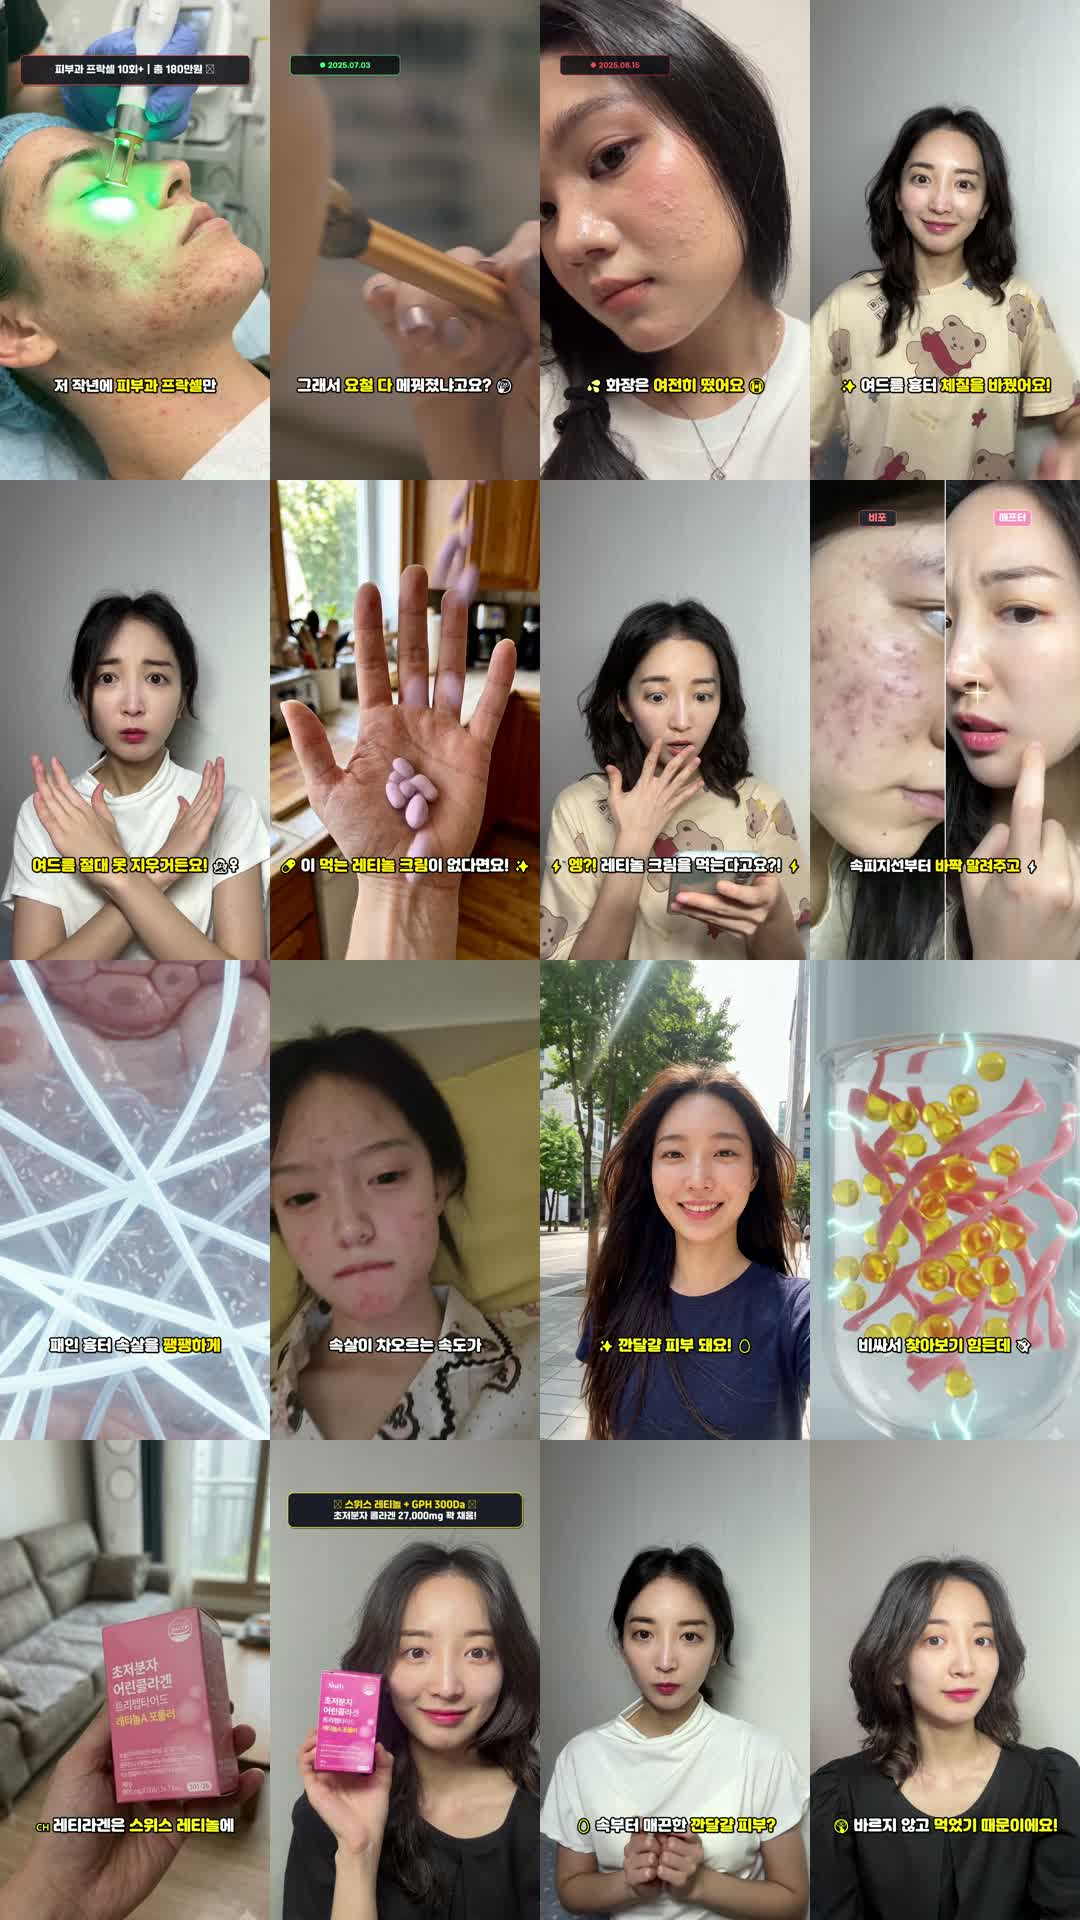
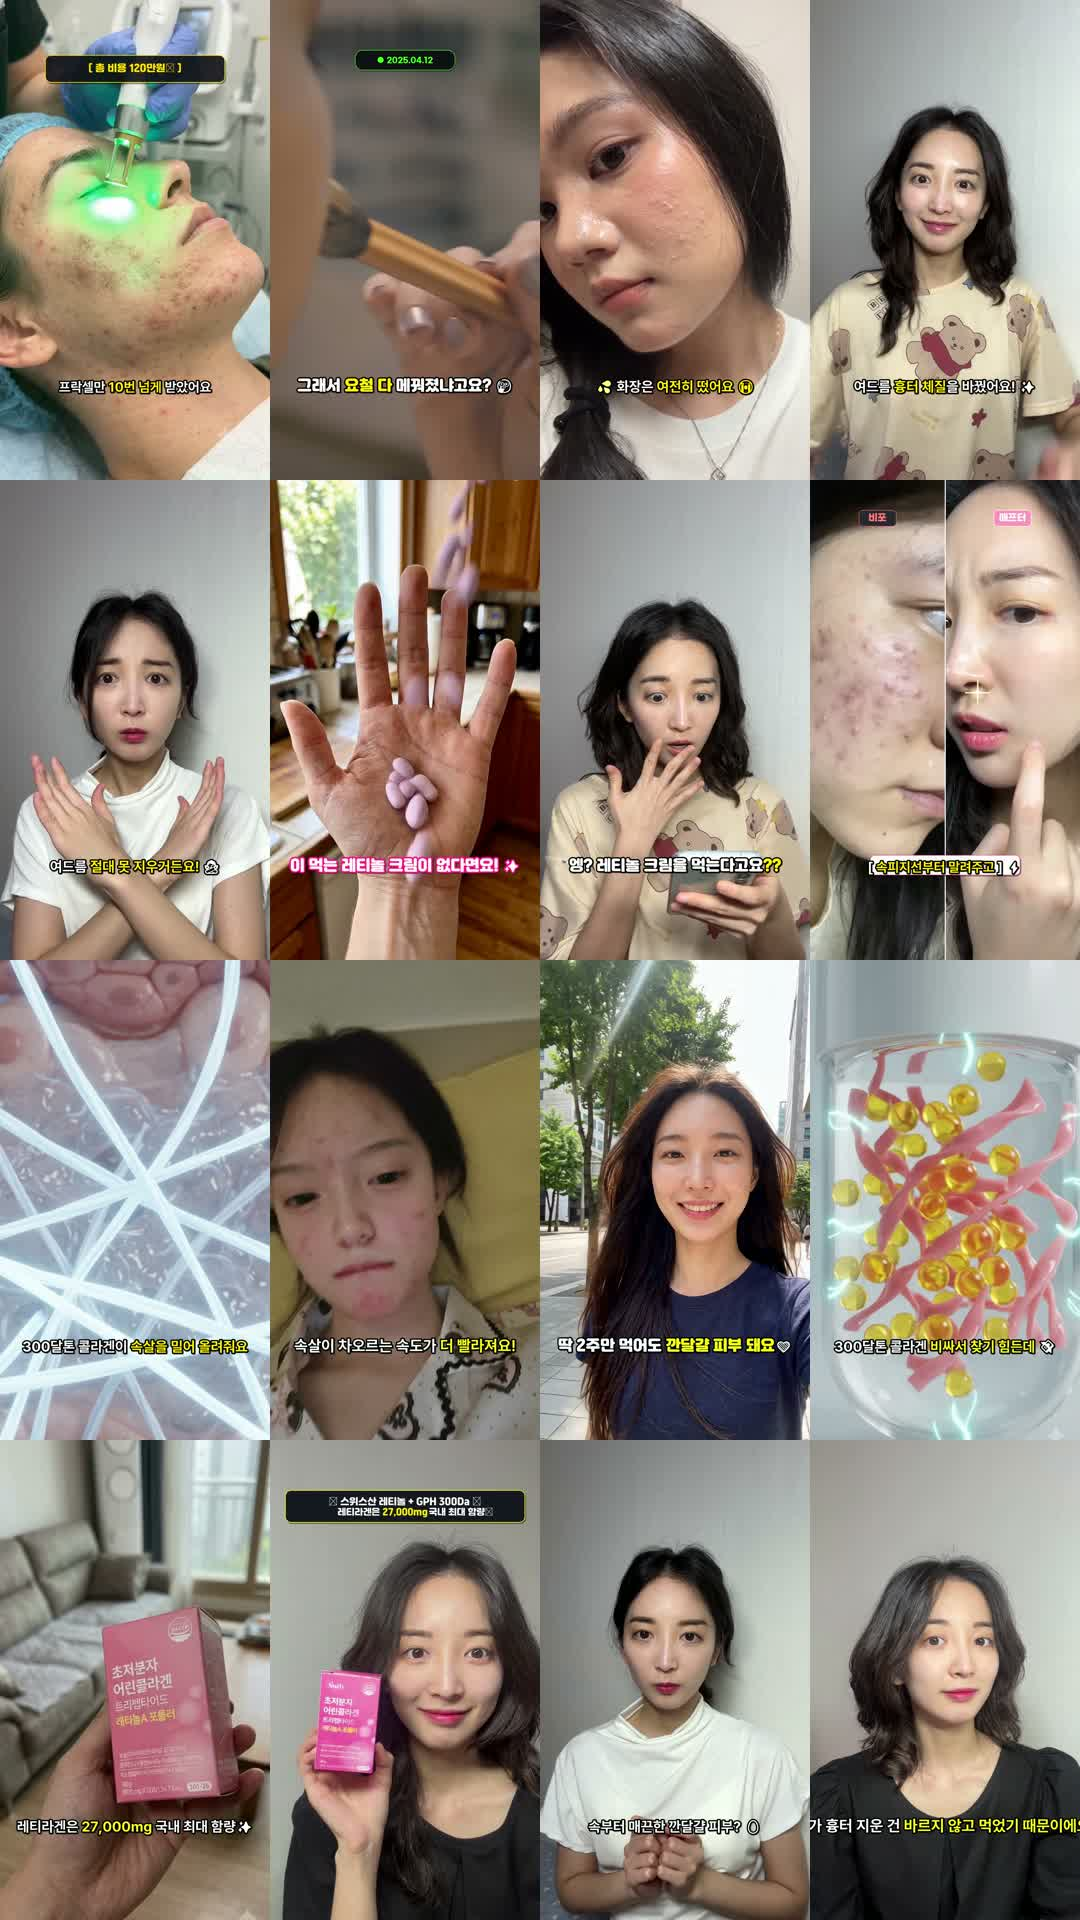
feat: complete exact 1:1 conti implementation with authentic overlays, typography, and sfx design

diff --git a/render_ad17_fish_master_v2.py b/render_ad17_fish_master_v2.py
@@ -30,10 +30,10 @@ ROOT_DIR = r"C:\Users\5700G\Desktop\레티라겐"
 MODEL_DIR = r"C:\Users\5700G\Desktop\레티라겐\윤라영님모델_소스"
 XHS_DIR = r"C:\Users\5700G\Desktop\레티라겐\xhs_sources"
 BUILD_DIR = os.path.join(WORKDIR, "build_ad17_fish")
-CHUNK_DIR = os.path.join(BUILD_DIR, "chunks_v4")
-SPLIT_DIR = os.path.join(BUILD_DIR, "split_frames_v4")
+CHUNK_DIR = os.path.join(BUILD_DIR, "chunks_conti")
+SPLIT_DIR = os.path.join(BUILD_DIR, "split_frames_conti")
 SPARKLE_DIR = os.path.join(WORKDIR, "build_temp_v9", "sparkles")
-OVERLAY_DIR = os.path.join(BUILD_DIR, "overlays_v2")
+OVERLAY_DIR = os.path.join(BUILD_DIR, "overlays_conti")
 
 os.makedirs(CHUNK_DIR, exist_ok=True)
 os.makedirs(SPLIT_DIR, exist_ok=True)
@@ -111,6 +111,11 @@ def render_split_chunk(out_chunk_path, duration=3.350):
         d.rounded_rectangle([735, 120, 885, 185], radius=16, fill=(245, 140, 190, 240), outline=(255, 255, 255, 255), width=2)
         d.text((810, 152), '애프터', fill=(255, 255, 255), font=f_tag, anchor='mm')
         
+        lbl_img = os.path.join(OVERLAY_DIR, "05_after_label.png")
+        if os.path.exists(lbl_img):
+            lbl = Image.open(lbl_img).convert('RGBA')
+            canvas = Image.alpha_composite(canvas, lbl)
+            
         canvas.convert('RGB').save(f'{SPLIT_DIR}/comp_{f:03d}.png')
         
     cmd = [
@@ -136,26 +141,25 @@ def render_all_cuts():
             "id": 1, "name": "c01_hook_greeting",
             "asset": resolve_asset(os.path.join(MODEL_DIR, "환하게 인사하는 장면2 - Trim.mp4")),
             "ss": 0.0, "dur": 1.350, "zoom": True, "hflip": False,
-            "overlay": os.path.join(OVERLAY_DIR, "overlay_insta_qna.png")
+            "overlay": os.path.join(OVERLAY_DIR, "01_insta_qna.png")
         },
         # Scene 2: Laser Agony & Flaking (1.35s ~ 7.95s, dur: 6.600)
         {
             "id": 2, "name": "c02_laser_broll",
             "asset": resolve_asset(os.path.join(MODEL_DIR, "Person_receiving_laser_skin_trea…_202609041413.mp4")),
             "ss": 0.0, "dur": 2.350, "zoom": True, "hflip": False,
-            "overlay": os.path.join(OVERLAY_DIR, "overlay_clinic_cost.png")
+            "overlay": os.path.join(OVERLAY_DIR, "01_cost_tag.png")
         },
         {
             "id": 3, "name": "c03_powder_flaking_broll",
             "asset": resolve_asset(os.path.join(ROOT_DIR, "결혼준비_2_메이크업_파우더터치.mp4")),
             "ss": 0.5, "dur": 1.550, "zoom": True, "hflip": False,
-            "overlay": os.path.join(OVERLAY_DIR, "overlay_date_stamp_1.png")
+            "overlay": os.path.join(OVERLAY_DIR, "02_date_stamp.png")
         },
         {
             "id": 4, "name": "c04_xhs_sebum_shine",
             "asset": resolve_asset(os.path.join(XHS_DIR, r"4_피부_숏폼영상_무자막\17.mp4")),
-            "ss": 1.0, "dur": 2.700, "zoom": True, "hflip": False,
-            "overlay": os.path.join(OVERLAY_DIR, "overlay_date_stamp_2.png")
+            "ss": 1.0, "dur": 2.700, "zoom": True, "hflip": False
         },
         # Scene 3: Paradigm Shift & Concept (7.95s ~ 16.30s, dur: 8.350)
         {
@@ -225,7 +229,7 @@ def render_all_cuts():
             "id": 17, "name": "c17_package_hflip",
             "asset": resolve_asset(os.path.join(MODEL_DIR, "제품 얼굴 옆에 들고 찍는 장면(좌우반전됨..) - Trim.mp4")),
             "ss": 0.5, "dur": 2.250, "zoom": True, "hflip": True,
-            "overlay": os.path.join(OVERLAY_DIR, "overlay_usp_card.png")
+            "overlay": os.path.join(OVERLAY_DIR, "07_usp_card.png")
         },
         {
             "id": 18, "name": "c18_cheek_closeup",
@@ -246,12 +250,14 @@ def render_all_cuts():
         {
             "id": 21, "name": "c21_pointing_cta",
             "asset": resolve_asset(os.path.join(MODEL_DIR, "화살표 아래로_CTA (손가락 모양이 좀..) - Trim.mp4")),
-            "ss": 0.2, "dur": 2.500, "zoom": True, "hflip": False
+            "ss": 0.2, "dur": 2.500, "zoom": True, "hflip": False,
+            "overlay": os.path.join(OVERLAY_DIR, "08_cta_box.png")
         },
         {
             "id": 22, "name": "c22_outro_hold_smile",
             "asset": resolve_asset(os.path.join(MODEL_DIR, "환하게 웃는 장면 - Trim.mp4")),
-            "ss": 0.3, "dur": 1.411, "zoom": True, "hflip": False
+            "ss": 0.3, "dur": 1.411, "zoom": True, "hflip": False,
+            "overlay": os.path.join(OVERLAY_DIR, "08_cta_box.png")
         }
     ]
     
@@ -345,7 +351,7 @@ def concat_and_burn():
     print(f">> Merged Visual Track Duration: {raw_dur:.3f}s")
     
     master_audio = os.path.join(BUILD_DIR, "master_audio_fish.wav")
-    ass_subs = os.path.join(BUILD_DIR, "ad17_fish_subtitles_synced.ass").replace('\\', '/').replace(':', '\\:')
+    ass_subs = os.path.join(BUILD_DIR, "ad17_fish_conti_subs.ass").replace('\\', '/').replace(':', '\\:')
     
     final_output = os.path.join(WORKDIR, "ad17_retiragen_fish_remastered.mp4")
     print(f">> Burning Perfectly Synced PopSub Subtitles & Muxing Master Audio into: {final_output}...")
